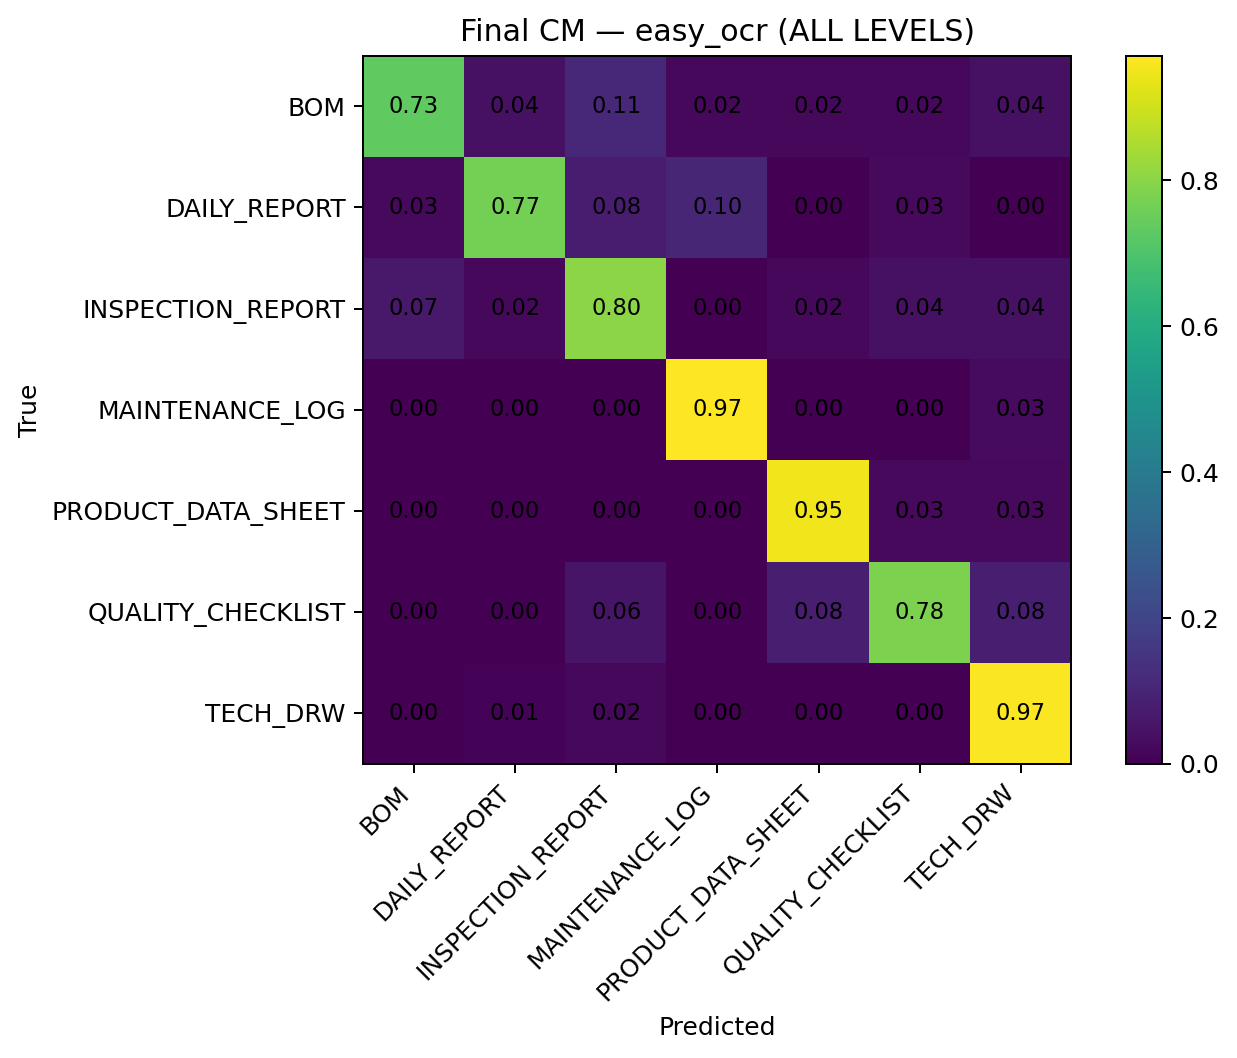
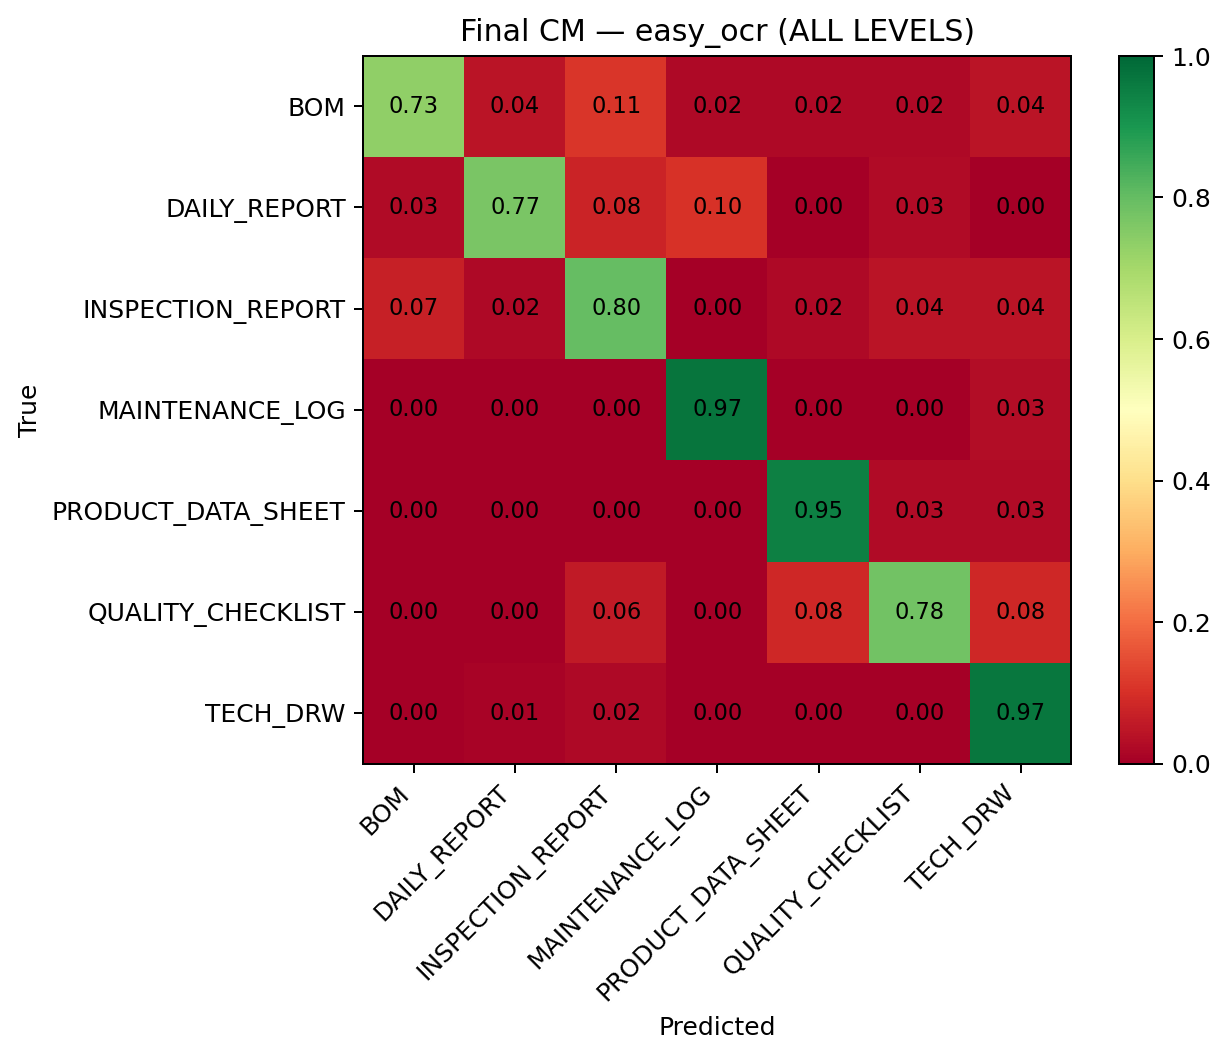
add matrixes and greater analysis scripts

diff --git a/eval/conf_matrixes/build_conf_matrix.py b/eval/conf_matrixes/build_conf_matrix.py
@@ -1,4 +1,3 @@
-# cm_final_per_engine_and_level.py
 import re
 from pathlib import Path
 import numpy as np
@@ -6,13 +5,11 @@ import pandas as pd
 import matplotlib.pyplot as plt
 from sklearn.metrics import confusion_matrix
 
-# ======== USTAWIENIA ========
-EXCEL_PATH = r"C:\Users\janek\Documents\GitHub\document_classificator\eval\conf_matrixes\HYBRID_EASYOCR.xlsx"
+EXCEL_PATH = r"C:\Users\janek\Documents\GitHub\document_classificator\eval\conf_matrixes\CNN_ONLY.xlsx"
 OUT_DIR    = Path(r"C:\Users\janek\Documents\GitHub\document_classificator\eval\conf_matrixes")
-NORMALIZE  = True      # True = procenty per klasa (wiersz); False = surowe liczby
+NORMALIZE  = True
 # ============================
 
-# mapping prawdziwych klas z nazwy pliku (gdy nie masz true_type w Excelu)
 CLASS_MAP = {
     r"^bom": "BOM",
     r"^daily[_\-]?report": "DAILY_REPORT",
@@ -48,9 +45,9 @@ def normalize_rows(cm: np.ndarray) -> np.ndarray:
 def plot_cm(cm, labels, title, outpath, normalize=True):
     arr = normalize_rows(cm) if normalize else cm
     fig = plt.figure(figsize=(8, 6))
-    im = plt.imshow(arr, interpolation="nearest")
+    im = plt.imshow(arr, interpolation="nearest", cmap="RdYlGn", vmin=0.0, vmax=1.0 if normalize else None)
     plt.title(title)
-    plt.colorbar(im)
+    plt.colorbar(im, fraction=0.046, pad=0.04)
     ticks = np.arange(len(labels))
     plt.xticks(ticks, labels, rotation=45, ha="right")
     plt.yticks(ticks, labels)
@@ -66,7 +63,6 @@ def plot_cm(cm, labels, title, outpath, normalize=True):
     plt.close(fig)
 
 def engine_tag(eng: str) -> str:
-    """Mapuj '-' (CNN) na czytelny tag."""
     e = (eng or "").strip().lower()
     if e in {"-", "none", "cnn"}:
         return "CNN"
@@ -74,7 +70,7 @@ def engine_tag(eng: str) -> str:
         return "tesseract_ocr"
     if e in {"easyocr", "easy_ocr"}:
         return "easy_ocr"
-    return eng  # fallback
+    return eng  
 
 def main():
     OUT_DIR.mkdir(parents=True, exist_ok=True)
@@ -85,21 +81,16 @@ def main():
     if missing:
         raise ValueError(f"Brakuje kolumn: {missing}")
 
-    # ujednolicenie stringów
     for c in ["input_file","final_pred","ocr_engine","train_level","test_level"]:
         df[c] = df[c].astype(str).str.strip()
 
-    # infer true labels z nazwy pliku
     df["true_type"] = df["input_file"].apply(infer_true_type)
     df = df[df["true_type"] != "UNKNOWN"].copy()
 
-    # normalizacja wartości specjalnych
     df["ocr_engine_tag"] = df["ocr_engine"].apply(engine_tag)
-    # brak poziomu dla tech drawings: jeśli masz puste/NaN/None, ustaw '-'
     df["train_level"] = df["train_level"].replace({"": "-", "nan": "-", "None": "-"})
     df["test_level"]  = df["test_level"].replace({"": "-", "nan": "-", "None": "-"})
 
-    # === 1) Macierze per OCR (w tym CNN jako osobny silnik) — ALL LEVELS ===
     for eng in sorted(df["ocr_engine_tag"].unique()):
         sub = df[df["ocr_engine_tag"] == eng]
         if sub.empty:
@@ -107,20 +98,7 @@ def main():
         cm = confusion_matrix(sub["true_type"], sub["final_pred"], labels=ALL_LABELS)
         plot_cm(cm, ALL_LABELS, f"Final CM — {eng} (ALL LEVELS)", OUT_DIR / f"cm_final_{eng}_ALL.png", NORMALIZE)
 
-    # # === 2) Macierze per OCR + (train_level, test_level) ===
-    # # UWAGA: TECH_DRW ma train_level '-' (i często test_level '-'). To nie przeszkadza – grupy z '-' też będą generowane.
-    # for eng in sorted(df["ocr_engine_tag"].unique()):
-    #     sub_eng = df[df["ocr_engine_tag"] == eng]
-    #     for tr in sorted(sub_eng["train_level"].unique()):
-    #         for te in sorted(sub_eng["test_level"].unique()):
-    #             sub = sub_eng[(sub_eng["train_level"] == tr) & (sub_eng["test_level"] == te)]
-    #             if sub.empty:
-    #                 continue
-    #             tag = f"{eng}_{tr}_train_{te}_test"
-    #             cm = confusion_matrix(sub["true_type"], sub["final_pred"], labels=ALL_LABELS)
-    #             plot_cm(cm, ALL_LABELS, f"Final CM — {tag}", OUT_DIR / f"cm_final_{tag}.png", NORMALIZE)
-
-    print(f"Gotowe. PNG zapisane w: {OUT_DIR.resolve()}")
+    print(f"Saved in: {OUT_DIR.resolve()}")
 
 if __name__ == "__main__":
     main()

diff --git a/docpipe/cli/classification_utils.py b/docpipe/cli/classification_utils.py
@@ -29,8 +29,6 @@ def load_vsd_model(classifier, engine, level, cfg):
                 if isinstance(model.classifier[i], nn.Linear):
                     last_idx = i
                     break
-            if last_idx is None:
-                raise RuntimeError("Nie znaleziono warstwy Linear w model.classifier (MobileNetV3).")
             in_features = model.classifier[last_idx].in_features
             model.classifier[last_idx] = nn.Linear(in_features, 2)
         else:
